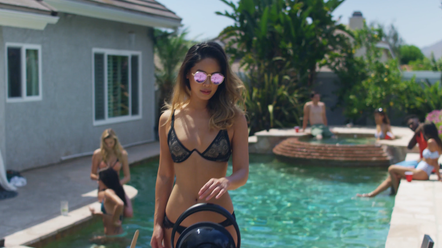
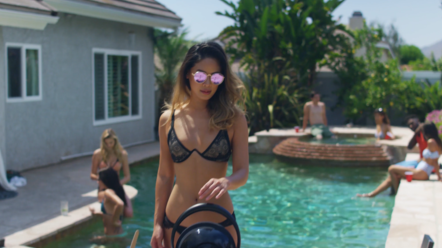
added new video. fixed image sizes

diff --git a/_posts/2018-05-26-one-roq.html b/_posts/2018-05-26-one-roq.html
@@ -1,0 +1,18 @@
+---
+layout: project
+categories: projects
+client: One Roq Vodka
+client_url: http://oneroq.com/
+client_color:
+video_title: "Own Your Spirit"
+video_id: 271961463
+video_thumb: one-roq.png
+featured: true
+---
+
+<div class="credits">
+    <p>Director &mdash; Cole Mueller</p>
+    <p>Producer &mdash; Vitascope Arts</p>
+    <p>Editor &mdash; Cole Mueller</p>
+    <p>VFX &mdash; Richard Cabrera</p>
+</div>
